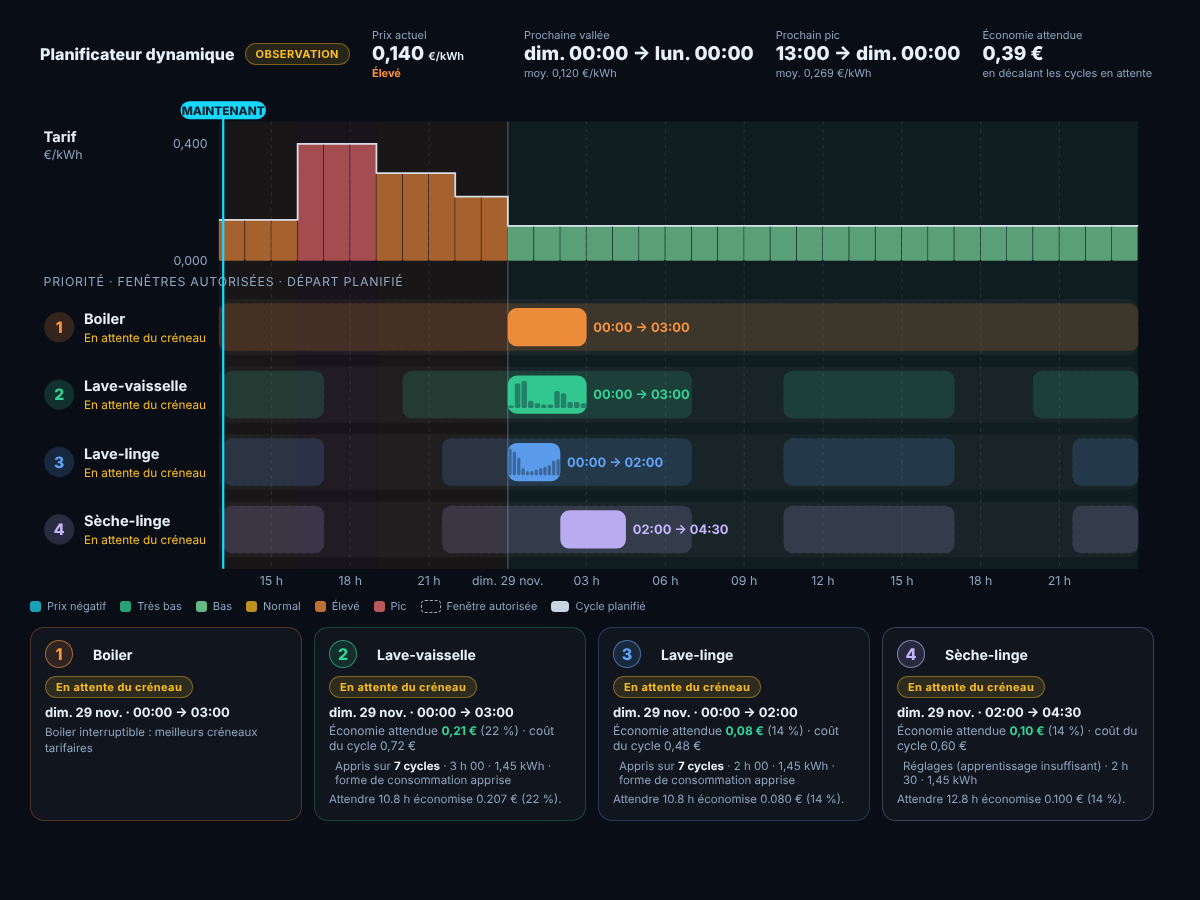
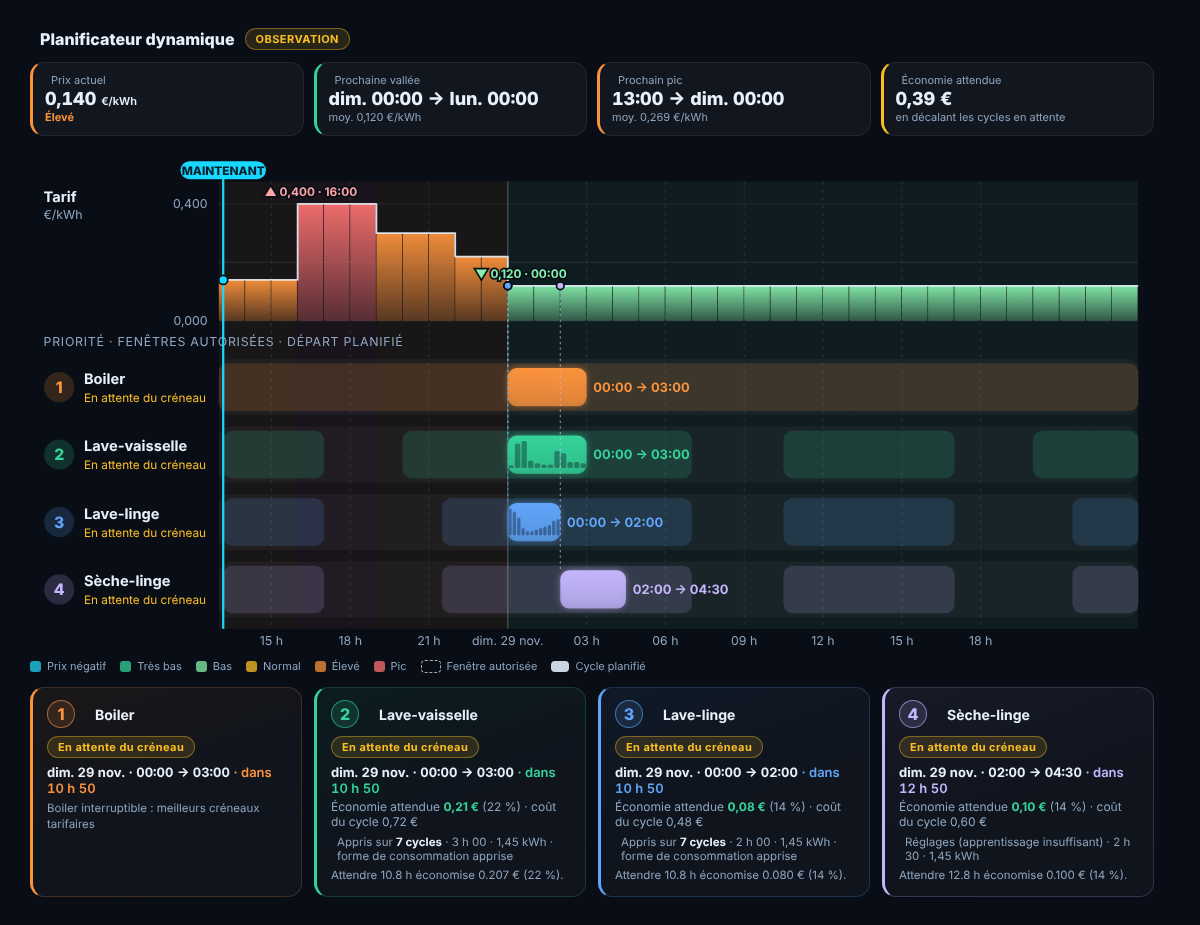
Vue Planificateur : visuel amélioré (info-bulles, repères de prix, connecteurs, compte à rebours)
Claude-Session: https://claude.ai/code/session_01JZbpaVk4qVK5BhL6Fav4kt

diff --git a/CHANGELOG.md b/CHANGELOG.md
@@ -1,5 +1,9 @@
 # Changelog — FoxCat Energy V1.7.701
 
+## Non publié
+
+- **Vue Planificateur : visuel amélioré** (dashboards tablette et mobile 1.9.0). Tuiles d'indicateurs à liseré coloré avec icônes ; courbe de tarif en barres à dégradé, repères de prix à trois niveaux, étiquettes **▼ prix minimum / ▲ prix maximum** avec leur heure (dynamique, tablette) ; **info-bulle** au survol de chaque créneau (heure, prix, bande) et de chaque cycle (heures, durée) ; barres de cycle à dégradé avec halo et durée affichée ; **connecteur pointillé** reliant le départ de chaque cycle au prix de la courbe à cet instant ; point pulsant sur la courbe à l'heure actuelle ; cartes par appareil avec liseré, dégradé et **compte à rebours** (« dans 10 h 50 », « maintenant », « cycle en cours »). Sur téléphone, les repères min/max sont masqués et l'axe n'affiche que minuit et midi pour rester lisible. Le code est le même dans `dashboard_v1.9.0.yaml` et `dashboard_mobile_v1.9.0.yaml` (une version déjà installée garde l'ancien visuel tant qu'on ne la régénère pas). Aperçus mis à jour dans `docs/PREVIEW_PLANIFICATEUR_*.png` ; rendu vérifié dans un navigateur de test, **pas dans Home Assistant**.
+
 ## V1.7.701
 
 - **Vue « Planificateur » du dashboard mobile 1.9.0** (`dashboard_mobile_v1.9.0.yaml`, recommandé) : même carte que sur tablette, en mise en page téléphone (frise étroite, nom du couloir au-dessus de la barre, cartes en colonne), ouverte par la tuile « Planificateur » de l'Accueil (sous-vue avec retour). La vue des deux tableaux de bord ajoute une carte de **réglages** : interrupteurs « … pilote les machines », stabilité du plan et état des deux planificateurs. La carte détecte le téléphone (`variables.mobile` ou écran de moins de 720 px). Aperçu : `docs/PREVIEW_PLANIFICATEUR_MOBILE.png`. Pour un dashboard personnel (« Tab Dash »), la vue se copie depuis `dashboard_v1.9.0.yaml` (vue `planificateur` et bouton `l` de `fc_navbar`).
